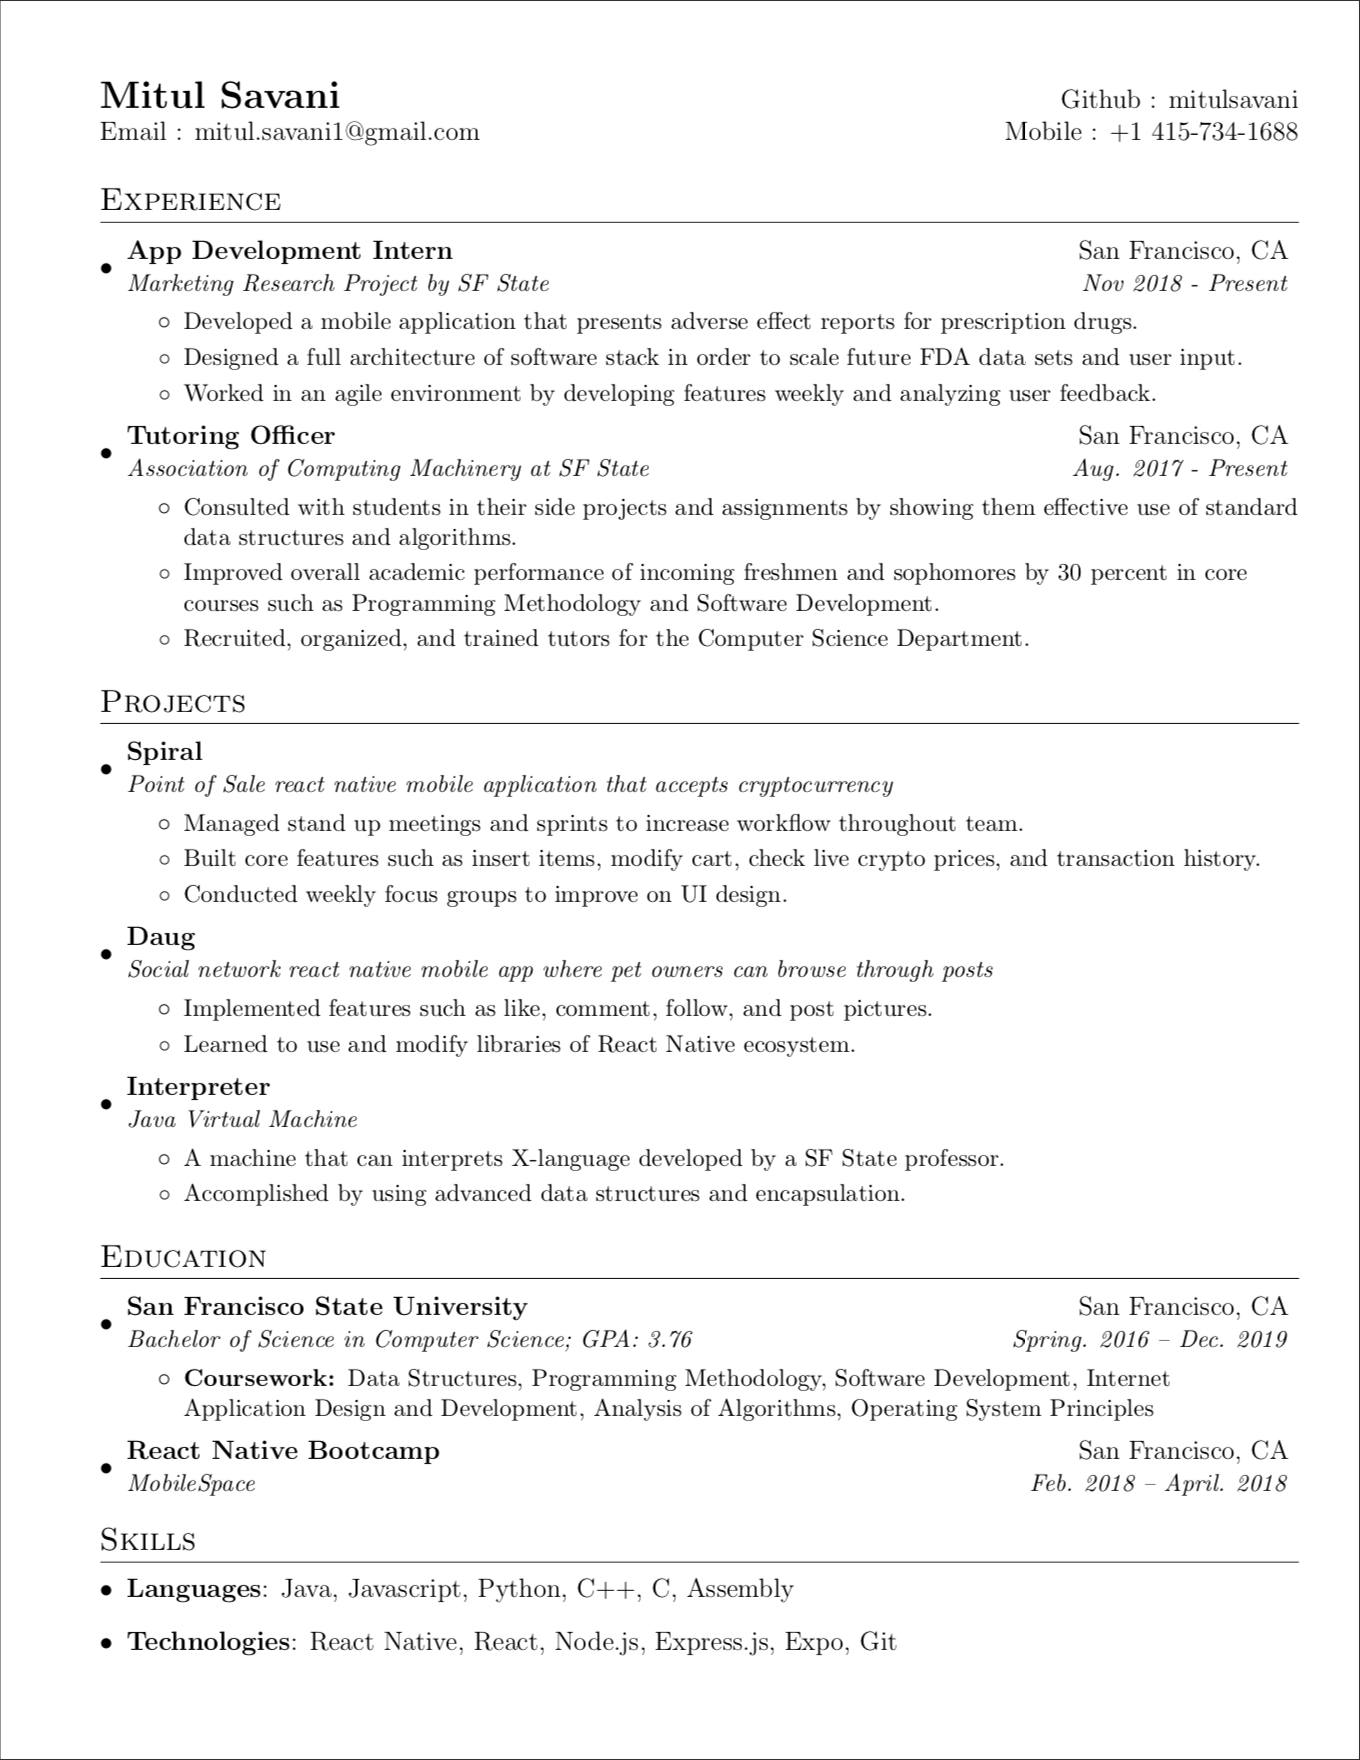
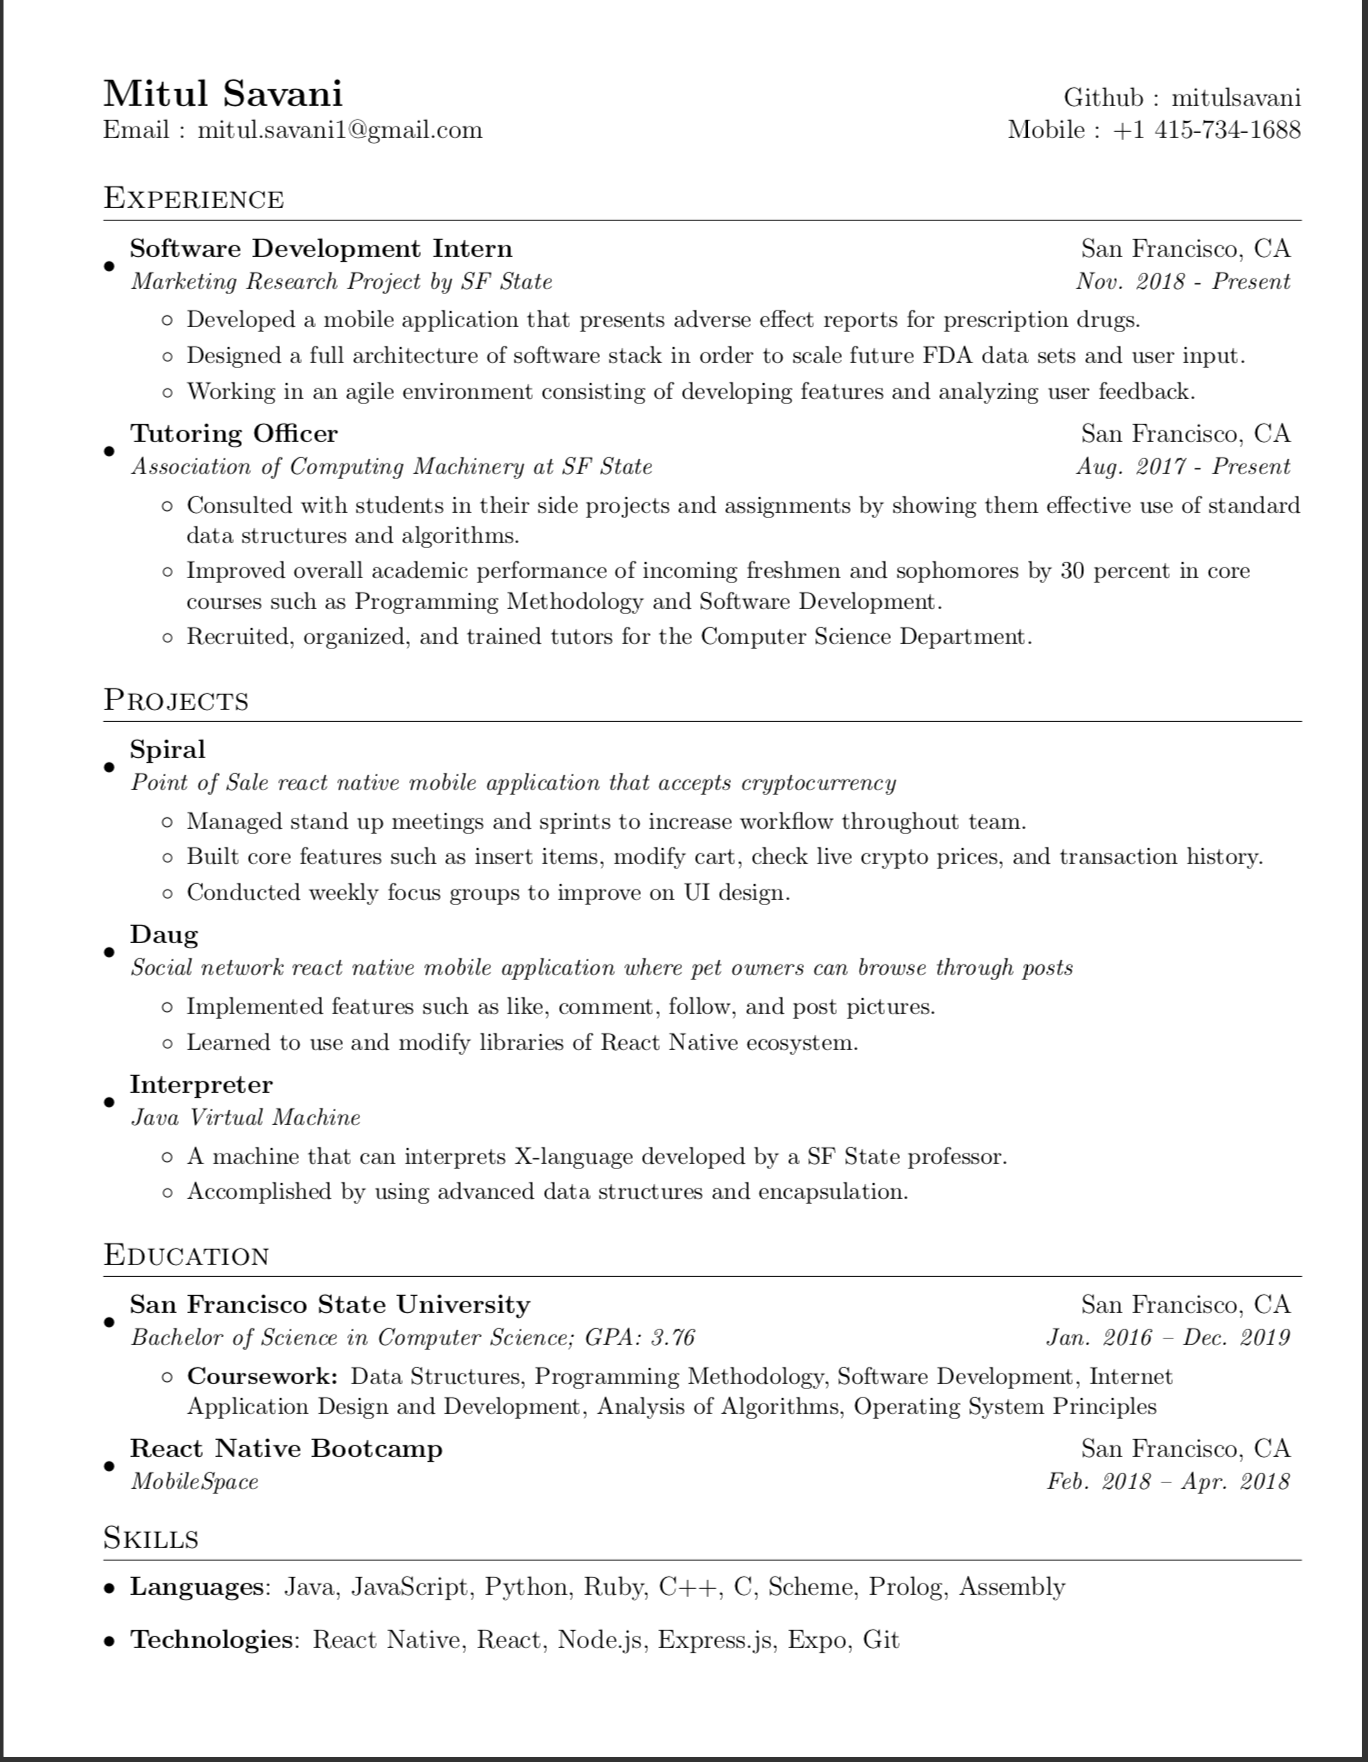
Minor changes

diff --git a/resume.tex b/resume.tex
@@ -84,7 +84,7 @@
   \resumeSubHeadingListStart
   
     \resumeSubheading
-      {App Development Intern}{San Francisco, CA}
+      {Software Development Intern}{San Francisco, CA}
       {Marketing Research Project by SF State}{Nov. 2018 - Present}
       \resumeItemListStart
         \resumeItem{}
@@ -92,7 +92,7 @@
         \resumeItem{}
           {Designed a full architecture of software stack in order to scale future FDA data sets and user input.}
         \resumeItem{}
-          {Worked in an agile environment by developing features weekly and analyzing user feedback.}
+          {Working in an agile environment consisting of  developing features and analyzing user feedback.}
       \resumeItemListEnd
       
       
@@ -130,7 +130,7 @@
       
      \resumeSubheading
       {Daug}{}
-      {Social network react native mobile app where pet owners can browse through posts}{}
+      {Social network react native mobile application where pet owners can browse through posts}{}
       \resumeItemListStart
         \resumeItem{}
           {Implemented features such as like, comment, follow, and post pictures.}
@@ -172,7 +172,7 @@
 \section{Skills}
  \resumeSubHeadingListStart
    \item{
-     \textbf{Languages}{: Java, Javascript, Python, C++, C, Assembly}
+     \textbf{Languages}{: Java, JavaScript, Python, Ruby, C++, C, Scheme, Prolog, Assembly}
     }
     \item{
      \textbf{Technologies}{: React Native, React, Node.js, Express.js, Expo, Git}
